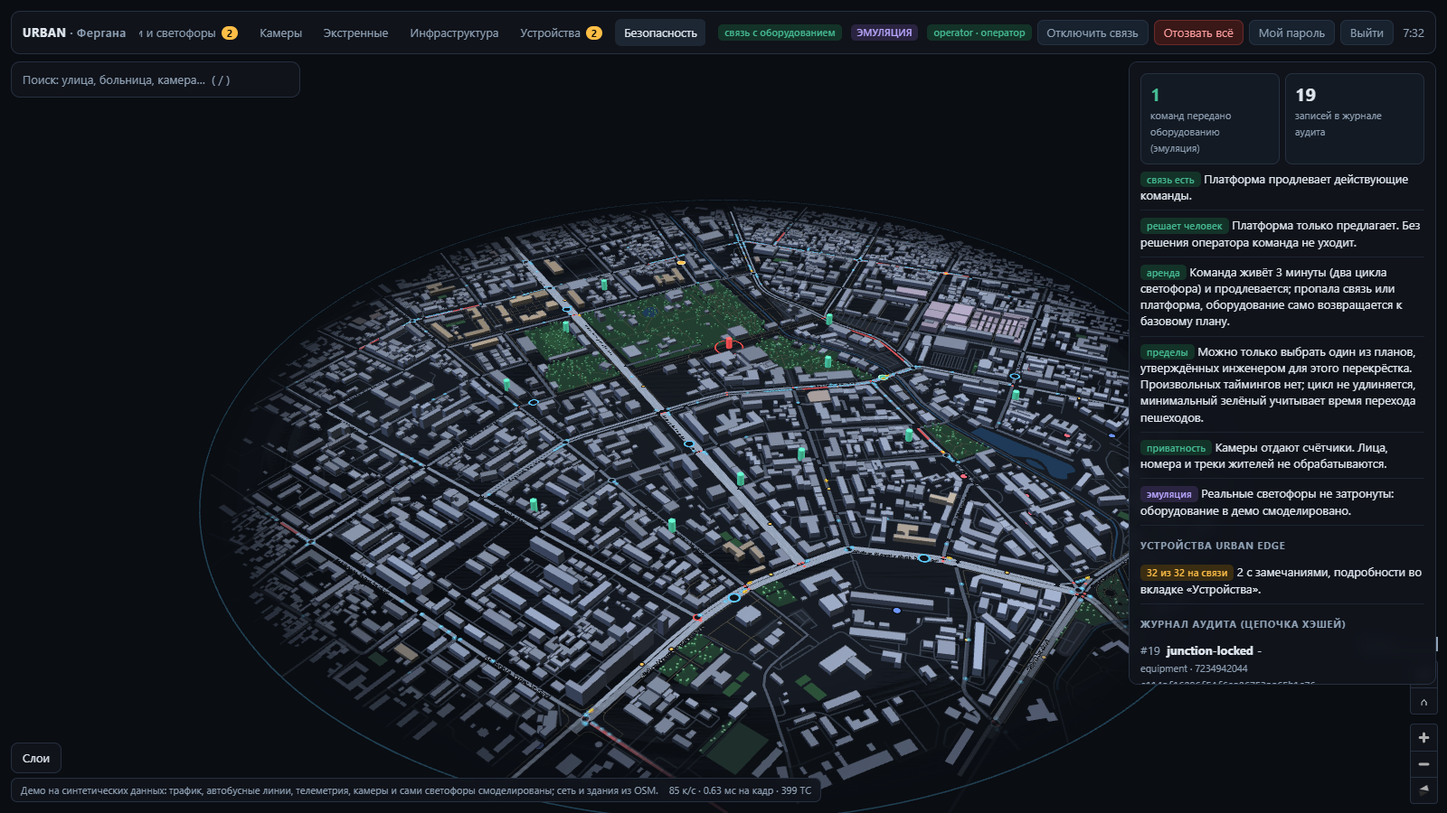
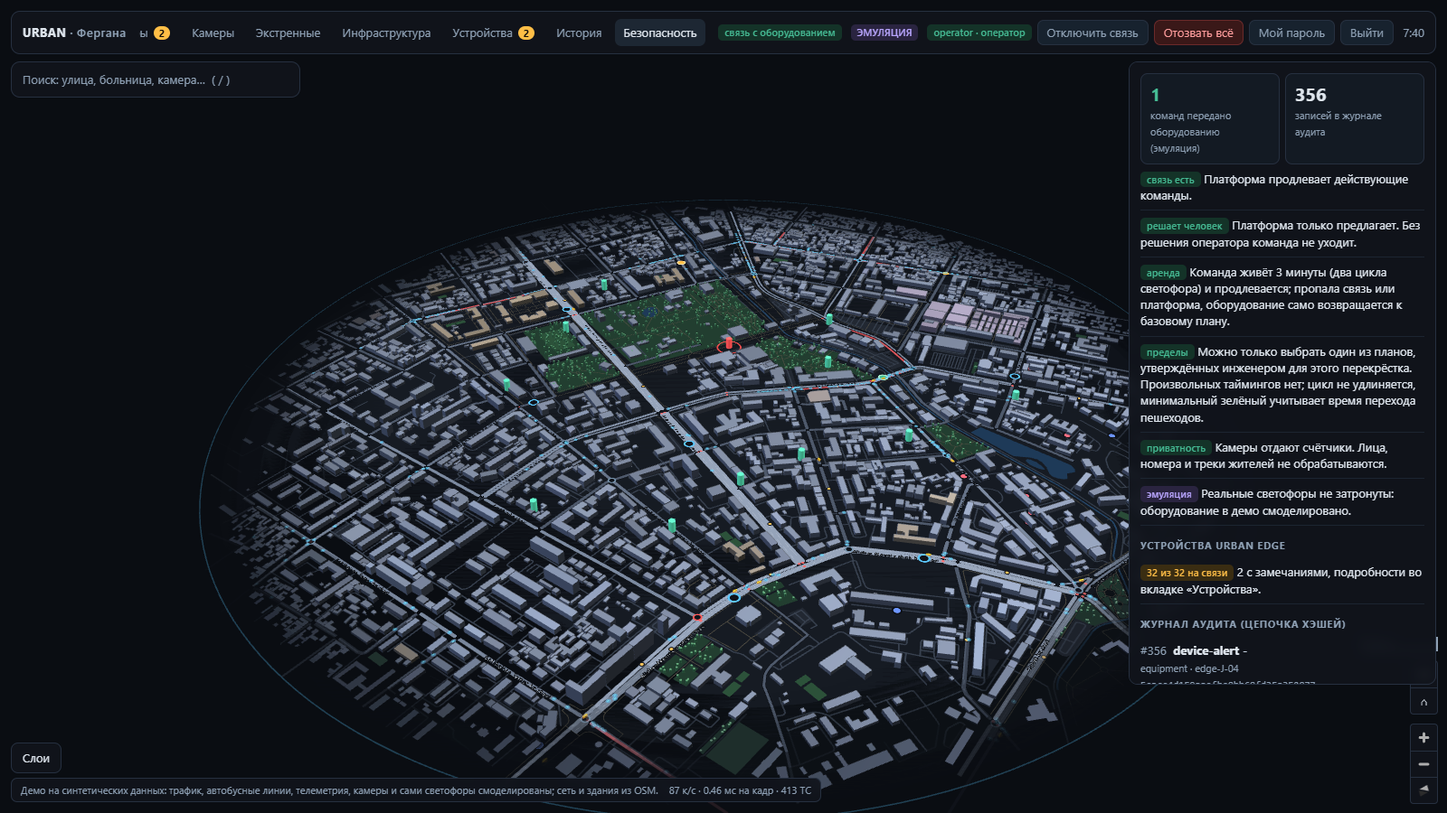
User guide, refreshed screenshots, README for the pilot product
- docs/guide.md: what the platform does and does not do, roles, sign-in, the screen, every tab, how to decide on a proposal, kill switches, devices, history and audit, accounts, the two modes, console commands, states, FAQ
- screenshots re-shot after the accounts and history work; history and accounts added to the README
- README: status and description for the pilot product, links to the guide and deploy

Changed region(s): [[0.0938, 0.0311, 0.4688, 0.0622], [0.7812, 0.7778, 0.875, 0.84], [0.9062, 0.0933, 0.9375, 0.1244]]

diff --git a/docs/guide.md b/docs/guide.md
@@ -1,0 +1,256 @@
+# Руководство пользователя URBAN
+
+Что умеет платформа, кто что может и как ею пользоваться: от входа до разбора истории. Для операторов
+центра управления, администратора и того, кто показывает демо. Как устроено внутри — в
+[architecture.md](architecture.md), как разворачивать — в [../deploy/README.md](../deploy/README.md).
+
+## Содержание
+
+1. [Что делает URBAN и чего не делает](#1-что-делает-urban-и-чего-не-делает)
+2. [Роли](#2-роли)
+3. [Вход и выход](#3-вход-и-выход)
+4. [Экран](#4-экран)
+5. [Вкладки](#5-вкладки)
+6. [Как принимать решение по пробке](#6-как-принимать-решение-по-пробке)
+7. [Аварийные кнопки](#7-аварийные-кнопки)
+8. [Устройства](#8-устройства)
+9. [История и журнал](#9-история-и-журнал)
+10. [Администратору: учётные записи](#10-администратору-учётные-записи)
+11. [Два режима: демо и оборудование](#11-два-режима-демо-и-оборудование)
+12. [Консольные команды](#12-консольные-команды)
+13. [Что значит каждое состояние](#13-что-значит-каждое-состояние)
+14. [Частые вопросы](#14-частые-вопросы)
+
+## 1. Что делает URBAN и чего не делает
+
+URBAN смотрит на перекрёстки через камеры и детекторы, находит, где одно направление стоит, а поперечное
+свободно, и **предлагает** оператору включить один из планов светофора, которые заранее утвердил инженер.
+Оператор решает. Если он соглашается, команда уходит на блок URBAN Edge в шкафу светофора как **аренда**:
+через три минуты без продления светофор сам возвращается к своей программе. Всё записывается в журнал,
+который нельзя подправить незаметно.
+
+Чего платформа не делает, и это принципиально:
+
+- **не применяет ничего сама** — без решения человека команда не уходит;
+- **не задаёт тайминги** — только номер плана из утверждённой таблицы; цикл не удлиняется, минимальный
+  зелёный учитывает пешеходов;
+- **не следит за людьми** — с камер приходят только числа (длина очереди, поток); лица, номера и треки не
+  обрабатываются;
+- **не держит команду, когда что-то не так** — пропала связь, упала платформа, вскрыли шкаф: светофор
+  возвращается к базовому плану без чьего-либо участия.
+
+Кроме светофоров платформа показывает происшествия и выезд экстренных служб, телеметрию инженерных объектов
+с прогнозом, здоровье своих устройств и полную историю. В демо-режиме трафик, происшествия, телеметрия и сами
+светофоры смоделированы; подпись в интерфейсе всегда говорит, в каком режиме вы.
+
+## 2. Роли
+
+| Роль | Видит | Может |
+|---|---|---|
+| **Наблюдатель** | всё | ничего не менять |
+| **Оператор** | всё | применять и отклонять предложения, «Отозвать всё», «Отключить связь», сменить свой пароль |
+| **Администратор** | всё | то же, что оператор, плюс отзыв и возврат доверия устройствам, учётные записи |
+
+Без учётной записи интерфейс не показывает ничего, кроме окна входа. Права проверяет сервер: спрятанная
+кнопка не обойти запросом.
+
+## 3. Вход и выход
+
+1. Откройте адрес платформы (в демо `http://localhost:8080`).
+2. Введите имя и пароль. Пять неверных попыток подряд — минута ожидания; считается и по имени, и по адресу.
+3. Справа вверху появится чип «имя · роль». Сессия живёт 12 часов, закрытие вкладки её завершает; «Выйти» —
+   немедленно.
+
+При первом запуске платформа сама создаёт администратора `admin` и **печатает пароль в консоль** один раз.
+Войдите и сразу смените его («Мой пароль» / «Учётные записи»).
+
+## 4. Экран
+
+```
+┌ URBAN · Фергана  [Обзор] [Пробки и светофоры] [Камеры] … [История] [Безопасность]   связь · режим · имя · кнопки · часы ┐
+│ Поиск: улица, больница, камера… ( / )                                                   ┌──────── панель вкладки ────────┐ │
+│                                                                                         │ показатели                     │ │
+│                           карта района в 3D                                             │ карточки проблем и событий     │ │
+│  ┌ окно камеры ┐                                                                        │ кнопки решения (операторам)    │ │
+│  └─────────────┘                                                     [Слои] [2D] [⌂]    └────────────────────────────────┘ │
+└ подпись о режиме и источнике данных ─────────────────────────────────────────────────────────────────────────────────────┘
+```
+
+- **Карта.** Колёсико — масштаб, перетаскивание — сдвиг, правая кнопка — наклон и поворот, «2D» —
+  плоский вид, «⌂» — весь район. Клик по объекту открывает карточку; клик по камере — её окно.
+- **Поиск** (`/`): улицы, больницы, камеры, объекты инфраструктуры; выбор перелетает к объекту.
+- **Слои:** здания, транспортный поток, остановки, камеры, инфраструктура, службы, названия улиц.
+- **Верхняя полоса:** состояние связи с оборудованием, режим (ЭМУЛЯЦИЯ или ОБОРУДОВАНИЕ), ваше имя и роль,
+  кнопки оператора, часы (в демо — время сценария, в режиме оборудования — время суток).
+- **Окно камеры:** вид двойника с подъезда, число машин в кадре, очередь в метрах, средняя скорость;
+  `‹` `›` — соседние камеры, `Esc` — закрыть. Видеопотока нет: показывается то, что знает платформа.
+
+## 5. Вкладки
+
+| Вкладка | Что в ней | Что можно сделать |
+|---|---|---|
+| **Обзор** | проблемы, ждущие решения; происшествия; авто в районе и средняя скорость; заторы; лента анализа | решить по проблеме прямо здесь |
+| **Пробки и светофоры** | карточки перекосов: где, сколько метров стоит, что предлагает платформа и за чей счёт | «Применить» / «Отклонить»; следить за очередью до и после |
+| **Камеры** | все 32 перекрёстка с детекторами; у 8 — окно камеры; очередь и поток по каждому | открыть окно камеры |
+| **Экстренные** | ДТП, выезд скорой и ДПС от ближайших больницы и отдела, расчётное и фактическое время | только смотреть; «зелёный коридор» пока только записывается |
+| **Инфраструктура** | подстанции, насосные, теплопункты: значение, порог, прогноз достижения порога | только смотреть; заявки на обслуживание пока только записываются |
+| **Устройства** | реестр блоков URBAN Edge: связь, температура, дверь шкафа, контроллер, аренды, версия | клик — перелёт к перекрёстку; администратору — «Отозвать» / «Доверять» |
+| **История** | всё, что пережило перезапуск: команды с решениями и итогами, запуски, целостность цепочки аудита | смотреть; обновляется раз в 20 с |
+| **Безопасность** | связь, действующие правила, сводка по устройствам, последние записи журнала с хэшами | только смотреть |
+
+Цифра на вкладке — сколько проблем ждут решения («Пробки и светофоры») или сколько устройств с замечаниями.
+
+## 6. Как принимать решение по пробке
+
+Карточка проблемы выглядит так:
+
+> **Universitet ko'chasi** · ждёт решения
+> камера CAM-06: очередь в среднем 41 м, у поперечного направления 8 м
+> Предложение платформы: включить **план 2** из утверждённых для CAM-06: +10 с зелёного для «Universitet
+> ko'chasi» за счёт «Turon ko'chasi». Длина цикла не меняется.
+> [Применить] [Отклонить]
+
+Что здесь важно:
+
+- **очередь — среднее за цикл светофора** (90 с), а не мгновенный всплеск; платформа предлагает, только если
+  загруженное направление стоит минимум в два раза длиннее поперечного и не короче 40 м;
+- **план с номером** — один из заранее утверждённых для этого перекрёстка; платформа не придумывает секунды;
+- **за счёт кого** — направление-донор названо; если оно само начнёт загружаться, команда снимется сама.
+
+Ваши варианты:
+
+| Действие | Что произойдёт |
+|---|---|
+| **Применить** | команда подписывается шлюзом и уходит на блок; статус «отправляется» → «применено» после подтверждения; идёт отсчёт «действует до»; раз в минуту аренда продлевается, пока открыто 15-минутное окно вашего согласия |
+| **Отклонить** | предложение закрыто; платформа **не вернётся с ним**, пока перекос на этом перекрёстке не исчезнет |
+| **Ничего** | через 2 минуты предложение помечается «не рассмотрено»; ничего не отправляется |
+
+Команда снимается раньше срока сама, если очередь ушла (меньше 15 м) или если направление-донор стало
+стоять не меньше загруженного. В карточке потом видно, что было и что стало по обоим направлениям, и причина
+завершения. «Применить» недоступно, когда связь отключена, блок перекрёстка не на связи или заблокирован.
+
+## 7. Аварийные кнопки
+
+- **Отозвать всё** — все действующие команды снимаются немедленно, ожидающие предложения отклоняются,
+  светофоры возвращаются к базовым планам. Работает и при отключённой связи (блоки сами снимают аренды по
+  таймеру). Запись в журнале под вашим именем.
+- **Отключить связь** — платформа перестаёт продлевать аренды. Это демонстрация главного свойства: через
+  три минуты каждый светофор возвращается к своей программе без участия платформы. «Восстановить связь» —
+  обратно.
+
+## 8. Устройства
+
+Каждый перекрёсток обслуживает блок URBAN Edge со своим ключом. В реестре по каждому видно:
+
+| Поле | Норма | Что значит отклонение |
+|---|---|---|
+| связь | «норма» | «нет связи» — отчётов нет; данные с перекрёстка не используются, предложений по нему нет |
+| температура | до 55 °C | 55–65 предупреждение, выше 65 тревога (шкаф на солнце, вентилятор) |
+| дверь шкафа | закрыта | **открыта → перекрёсток блокируется**: команды снимаются, новые не принимаются, пока дверь не закроют |
+| контроллер | «контроллер ок» | ошибка связи с контроллером → блокировка, как при вскрытии |
+| аренды | 0 или 1 | сколько команд держит блок |
+| версия | текущая | устаревшая прошивка — предупреждение |
+| последний отчёт | секунды | больше 10 с — предупреждение |
+
+Администратор может **отозвать** блок (сессия рвётся, подключиться он больше не сможет) и **вернуть доверие**.
+Отзыв нужен, если блок украли, вскрыли или ключ мог утечь.
+
+## 9. История и журнал
+
+**Журнал аудита** — цепочка записей, каждая со своим SHA-256 и хэшем предыдущей: вход и выход, каждое
+предложение, решение, отправка, подтверждение блока, снятие, тревоги устройств, отзыв. Подменить или удалить
+запись незаметно нельзя: цепочка рвётся. Последние записи видны во вкладке «Безопасность».
+
+**История** хранится в базе и переживает перезапуски. Там:
+
+- счётчики: сколько записей, команд, запусков, замеров;
+- «цепочка целая» — при старте платформа проверила весь журнал с записи #1; если файл трогали в обход,
+  будет написано, с какой записи;
+- команды за всё время: когда, где, какой план, кто решил, что было и что стало;
+- запуски платформы (в демо каждый перезапуск сценария — новый запуск).
+
+Для аналитики есть API (нужна учётная запись): `/api/history/commands`, `/api/history/audit`,
+`/api/history/devices/<блок>`, `/api/history/queues/<перекрёсток>` — очереди по подъездам раз в минуту.
+
+## 10. Администратору: учётные записи
+
+Кнопка «Учётные записи» (справа вверху, только у администратора):
+
+- список: имя, роль, когда создана, включена ли;
+- **Пароль** — сбросить пароль любому (его сессии завершаются);
+- **Отключить / Включить** — отключённая запись не входит, её сессии завершаются; себя отключить нельзя;
+- **Новая учётная запись** — имя (буквы, цифры, `. - _`, до 40), пароль от 10 символов, роль.
+
+У всех остальных та же кнопка называется «Мой пароль». Пароли хранятся только как хэши (scrypt) в
+`data/users.json`; то же можно делать из консоли (раздел 12).
+
+## 11. Два режима: демо и оборудование
+
+| | ЭМУЛЯЦИЯ (демо) | ОБОРУДОВАНИЕ (пилот) |
+|---|---|---|
+| откуда трафик | симуляция SUMO центрального района Ферганы | не показывается (видеопотока нет) |
+| откуда очереди | смоделированные датчики через эмулированные блоки | отчёты реальных блоков URBAN Edge |
+| светофоры | эмулированные контроллеры, со своим таймером потери связи | настоящие, через адаптер блока |
+| происшествия, телеметрия | сценарий | нет (источники ещё не подключены) |
+| часы | время сценария, цикл 60 минут | время суток |
+| устройства | 32 блока в одном процессе, сценарные сбои (перегрев, вскрытие) | по одному блоку на перекрёсток |
+
+Режим задаётся в `.env`: `URBAN_SOURCE=simulation` или `field`. Всё остальное — решения, аренды, журнал,
+история, учётные записи, реестр — одинаково в обоих.
+
+## 12. Консольные команды
+
+Из корня репозитория, в окружении `.venv`:
+
+| Команда | Что делает |
+|---|---|
+| `python -m urban` | запустить платформу (в демо сама поднимает блоки) |
+| `python -m urban.users list \| add <имя> --role operator \| password <имя> \| disable <имя> \| enable <имя>` | учётные записи |
+| `python -m urban.provision [--host имя]` | ключи, сертификаты, реестр блоков; сертификат слушателя на имя хоста |
+| `python -m urban.edge` / `--only J-21` | демо-блоки отдельно (`URBAN_EDGE=manual` для платформы) |
+| `python -m urban.edge --unit edge-J-21 --platform host:8443 --adapter none\|relay\|ntcip --controller … --sensors …` | один настоящий блок |
+| `python -m urban.sensors --calibration cameras.json --out queues.json < detections.jsonl` | камерный конвейер блока |
+| `python -m urban.pipeline` | подготовить данные района из OSM (сеть, спрос, слои карты) |
+| `python -m urban.experiments.signal_rebalance` | замер эффекта управления (несколько минут) |
+| `python -m pytest backend` | тесты |
+
+## 13. Что значит каждое состояние
+
+Состояния команды:
+
+| Статус | Смысл |
+|---|---|
+| ждёт решения | предложение открыто, 2 минуты на решение |
+| отправляется | вы применили; команда ушла на блок, ждём подтверждения |
+| применено | блок подтвердил: контроллер работает по выбранному плану |
+| отзывается | команда снимается (вручную, по истечении окна, по блокировке или сама) |
+| завершено | блок подтвердил возврат к базовому плану; причина в карточке |
+| отклонено | вы отказались, либо сработало «Отозвать всё» |
+| не рассмотрено | никто не решил за 2 минуты |
+| отказ оборудования | блок отверг команду (нет такого плана, контроллер недоступен, перекрёсток под другой арендой) |
+
+Причины завершения: «очередь ушла», «начало загружаться направление-донор», «отозвано оператором», «окно
+подтверждения закончилось», «связь пропала, светофор вернулся сам», «перезапуск сценария».
+
+Состояния устройства: норма · предупреждение (температура, версия, редкие отчёты) · тревога · заблокирован
+(дверь, контроллер) · нет связи · отозвано.
+
+## 14. Частые вопросы
+
+**Нажал «Применить», а ничего не произошло.** Смотрите подпись под кнопкой: связь отключена, блок не на связи
+или перекрёсток заблокирован — платформа не обещает того, что не может выполнить. Сообщение внизу экрана
+скажет причину.
+
+**Почему платформа не предлагает ничего по явной пробке?** Либо перекос недостаточный (поперечное тоже
+стоит — перенос зелёного не поможет), либо по этому перекрёстку недавно отклоняли, либо прошло меньше трёх
+минут после прошлой команды, либо от блока нет данных.
+
+**Можно ли сделать зелёный длиннее, чем в планах?** Нет. Таблица планов утверждается инженером и загружается в
+контроллер; платформа и блок проверяют номер, а не секунды.
+
+**Что будет, если платформу взломают?** Команды подписаны ключом шлюза и живут три минуты; блок проверяет
+подпись, адрес, номер и свежесть; усилить вмешательство нельзя, вернуть базовый план можно всегда. Худшее,
+что видит улица, — те же утверждённые планы на три минуты. Подробно в [security.md](security.md).
+
+**Перезапустили платформу — что с командами?** Блоки сами снимают аренды по таймеру; история и журнал
+продолжаются с того же места; все пользователи входят заново.

diff --git a/README.md b/README.md
@@ -6,7 +6,7 @@
 
 Камеры находят проблему · платформа предлагает решение · оператор решает · при сбое всё возвращается на место
 
-![статус](https://img.shields.io/badge/статус-демо--макет-8a63d2)
+![статус](https://img.shields.io/badge/статус-продукт%20для%20пилота%20·%20демо--режим-8a63d2)
 ![python](https://img.shields.io/badge/python-3.11+-3776ab)
 ![tests](https://img.shields.io/badge/тесты-102%20проходят-2ea44f)
 ![пилот](https://img.shields.io/badge/пилот-Фергана-5cc8ff)
@@ -17,15 +17,18 @@
 
 ## Что это
 
-Демо-макет платформы **URBAN** (команда NEXUS) на цифровом двойнике центра Ферганы.
-Работает локально на Windows, без Docker и без внешних сервисов.
+Платформа **URBAN** (команда NEXUS) для пилота в Фергане: учётные записи и роли, история, которая переживает
+перезапуск, режим работы с реальными блоками на перекрёстках, развёртывание на сервере внутри страны. Для показа
+и замеров есть демо-режим на цифровом двойнике центра Ферганы: работает локально на Windows, без Docker и внешних
+сервисов. **Как пользоваться — в [docs/guide.md](docs/guide.md).**
 
 Идея выросла из образа «городской операционной системы», но с обратным принципом:
 **Protect the city, don't control its residents.** Камеры считают поток и очереди, а не людей;
 платформа ничего не делает сама; любое вмешательство истекает само.
 
-> **Важно:** оборудование в демо эмулируется. Реальные светофоры Ферганы не затрагиваются:
-> они работают автономно, и для настоящего управления нужны модули связи на перекрёстках.
+> **Важно:** в демо-режиме оборудование эмулируется, и интерфейс так и подписан. Реальные светофоры Ферганы
+> не затрагиваются: они работают автономно, и для настоящего управления нужны блоки URBAN Edge на перекрёстках.
+> Транспорты к контроллерам и камерный конвейер написаны, но на железе пока не проверены.
 
 ## Как это работает
 
@@ -51,6 +54,10 @@ flowchart LR
 | Камера нашла проблему | Реестр устройств и их здоровье |
 |---|---|
 | ![Проблема, найденная камерой, ждёт решения оператора](docs/img/problem.png) | ![Вкладка устройств: вскрытый шкаф заблокировал перекрёсток, другой шкаф перегревается](docs/img/devices.png) |
+
+| История, пережившая перезапуски | Учётные записи и роли |
+|---|---|
+| ![Вкладка истории: команды с решениями, запуски, целостность цепочки аудита](docs/img/history.png) | ![Диалог учётных записей администратора](docs/img/accounts.png) |
 
 | Журнал и правила безопасности | Вход по учётной записи |
 |---|---|
@@ -220,14 +227,15 @@ backend/urban/
   accounts.py    учётные записи, роли, сессии; users.py — консоль
   pipeline/      подготовка данных из OSM
   experiments/   замер эффекта управления
-backend/tests/   75 тестов
+backend/tests/   102 теста
 web/src/         интерфейс: scene/ (3D-сцена), map/ (навигация, камера, поиск), ui/ (панель)
-docs/            архитектура, безопасность, замер
+deploy/          сервер: systemd, nginx, установка, резервные копии
+docs/            руководство, архитектура, безопасность, железо, софт под железо, замер
 ```
 
-Документы: [CONTEXT.md](CONTEXT.md) (замысел, решения, состояние) ·
+Документы: **[docs/guide.md](docs/guide.md) — руководство пользователя** · [CONTEXT.md](CONTEXT.md) (замысел, решения, состояние) ·
 [docs/architecture.md](docs/architecture.md) · [docs/hardware.md](docs/hardware.md) · [docs/software.md](docs/software.md) · [docs/security.md](docs/security.md) ·
-[docs/benchmark.md](docs/benchmark.md)
+[docs/benchmark.md](docs/benchmark.md) · [deploy/README.md](deploy/README.md)
 
 ## Что дальше
 

diff --git a/CONTEXT.md b/CONTEXT.md
@@ -2,7 +2,8 @@
 
 Этот файл нужен, чтобы быстро войти в проект: человеку из команды или ИИ-ассистенту.
 Здесь замысел, принятые решения, текущее состояние и правила, которые нельзя нарушать.
-Как запускать, написано в [README.md](README.md); как устроено внутри, в [docs/architecture.md](docs/architecture.md);
+Как запускать, написано в [README.md](README.md); как пользоваться, в [docs/guide.md](docs/guide.md);
+как устроено внутри, в [docs/architecture.md](docs/architecture.md);
 что ставить на перекрёсток, в [docs/hardware.md](docs/hardware.md); как под это устроен код, в
 [docs/software.md](docs/software.md).
 
@@ -154,7 +155,8 @@ web/src/
   map/          карта и навигация, окно камеры, поиск, карточка объекта
   ui/panel.js   вкладки центра управления
   state.js, api.js
-docs/           architecture.md, security.md, benchmark.md, hardware.md, software.md
+docs/           guide.md (руководство пользователя), architecture.md, security.md, benchmark.md, hardware.md, software.md
+deploy/         установка на сервер, службы, nginx, копии
 ```
 
 Поток: `sources` → шина → `Platform.handle` (анализ, предложения) → WebSocket → интерфейс.
